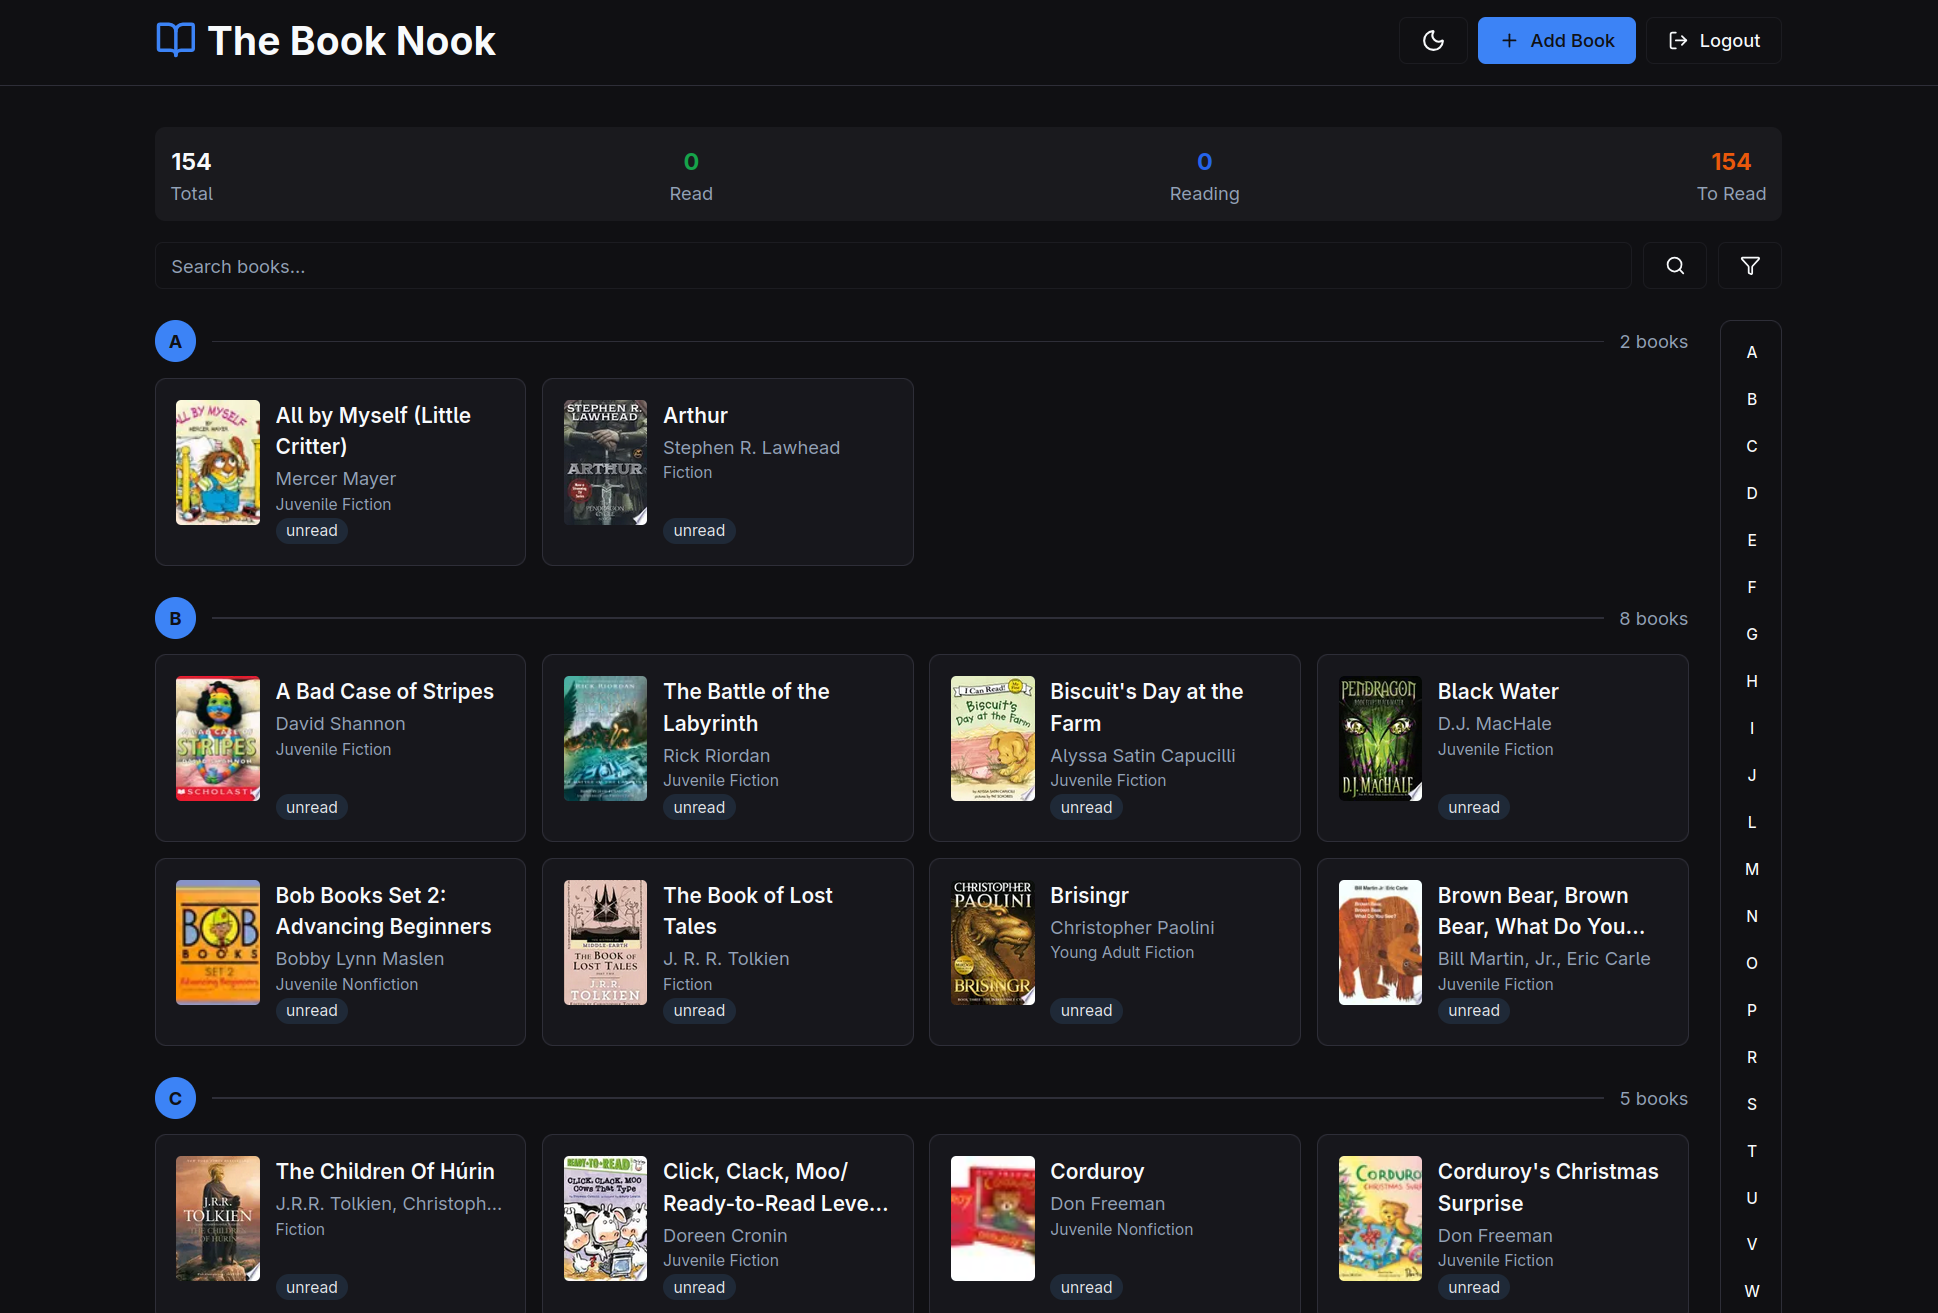
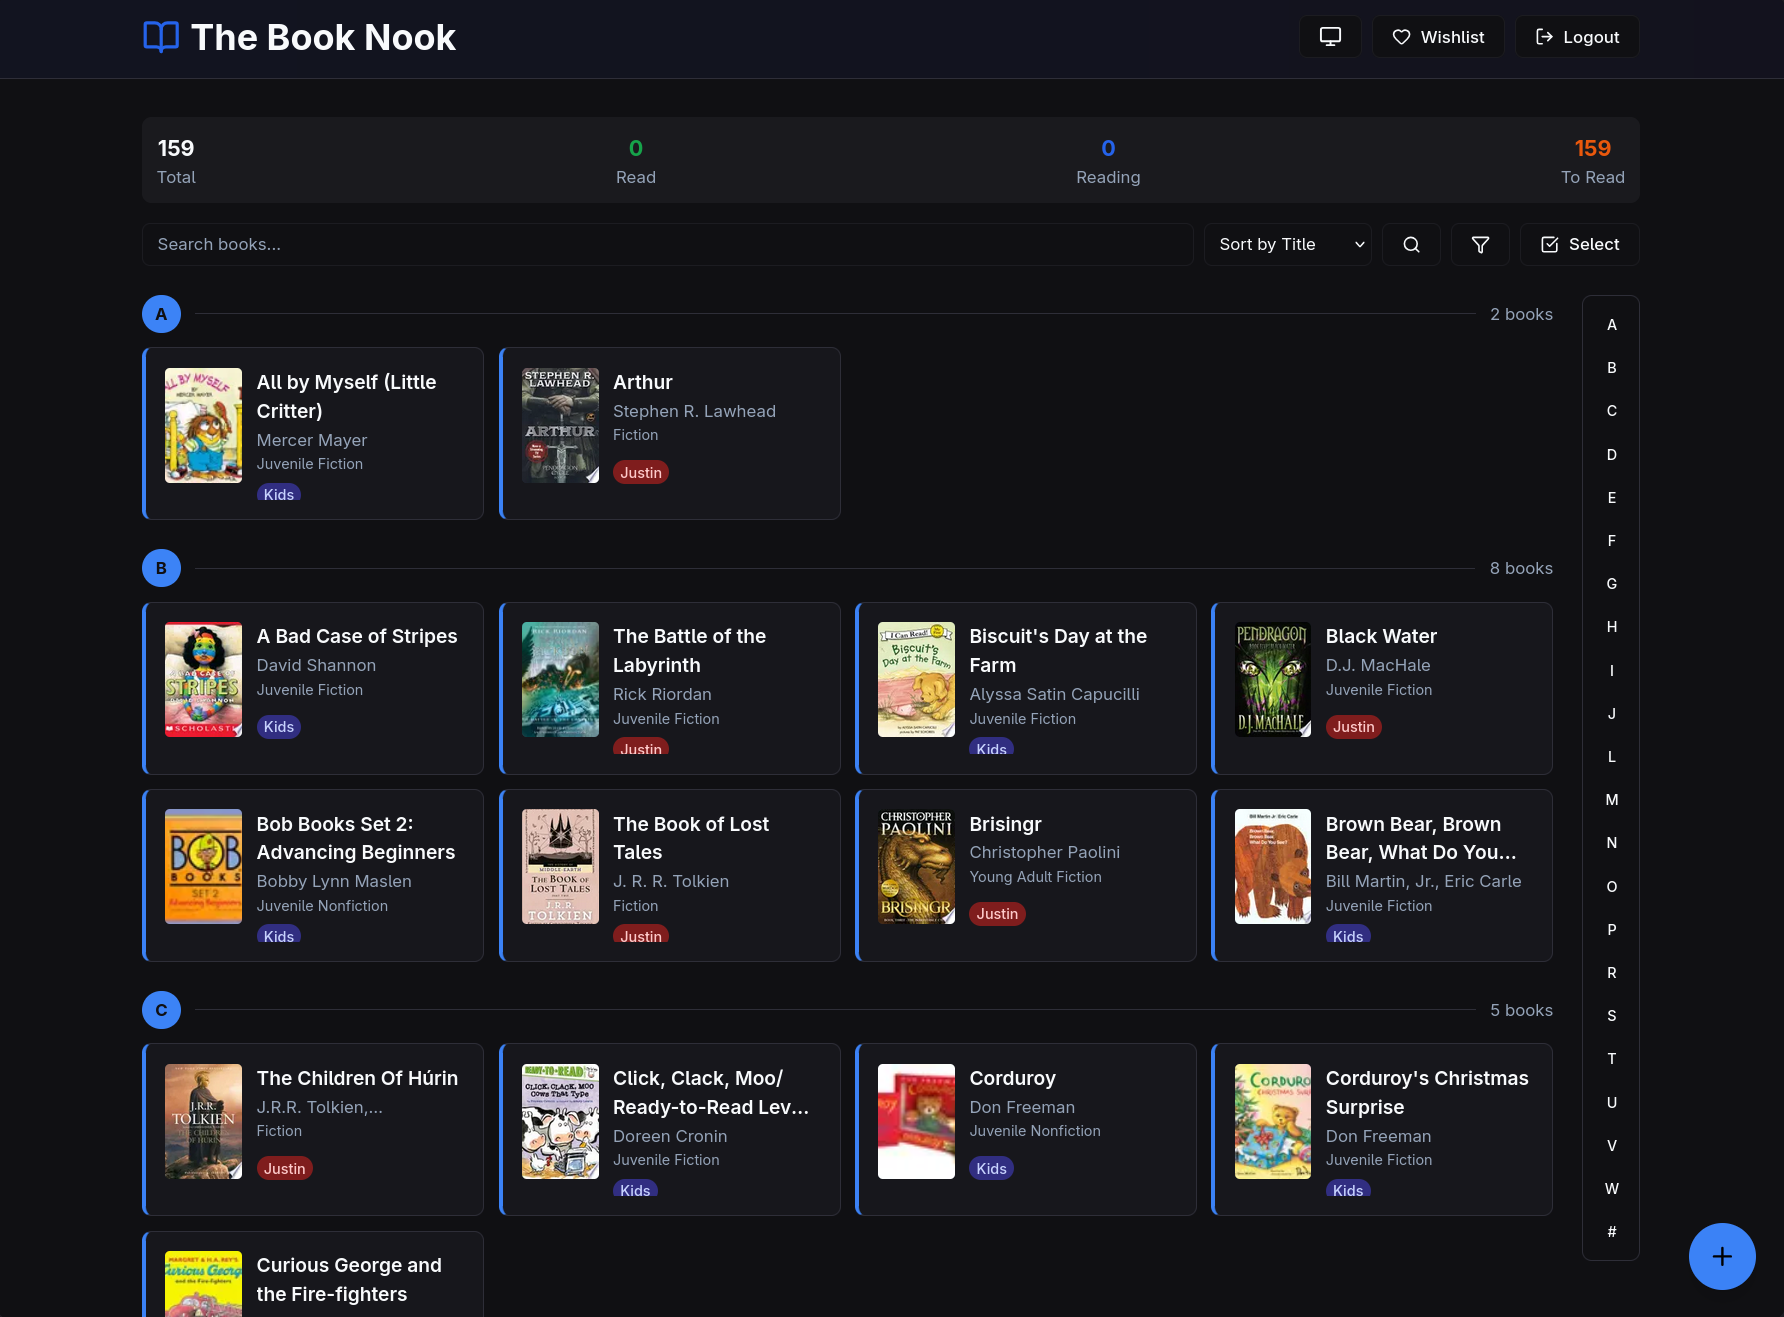
Updated README with latest features

diff --git a/README.md b/README.md
@@ -1,6 +1,6 @@
-# Personal Library Catalog
+# The Book Nook
 
-A simple web application to catalog and manage your personal book collection with authentication and Docker support.
+A simple web application to catalog and manage your personal book collection with wishlist functionality, authentication, and Docker support.
 
 ![screenshot](assets/screenshot.png)
 
@@ -8,10 +8,13 @@ A simple web application to catalog and manage your personal book collection wit
 
 - **User Authentication**: Secure login system with username/password
 - **Book Management**: Add, edit, and delete books from your library
+- **Wishlist Management**: Track books you want to read with priority levels (low, medium, high)
 - **Google Books Integration**: Search and import book details automatically
 - **Reading Status**: Track books as unread, currently reading, or read
 - **Ratings & Notes**: Add personal ratings (1-5 stars) and notes to books
-- **Search & Filter**: Search your library by title, author, or ISBN
+- **Tagging System**: Organize books and wishlist items with custom tags
+- **Search & Filter**: Search your library by title, author, ISBN, or tags
+- **Dark Mode**: Toggle between light and dark themes
 - **Statistics Dashboard**: View your reading progress and library stats
 - **Docker Support**: Easy deployment with Docker Compose
 
@@ -27,11 +30,13 @@ A simple web application to catalog and manage your personal book collection wit
 ### Option 1: Docker Compose (Recommended)
 
 1. Copy the environment file:
+
 ```bash
 cp .env.example .env
 ```
 
 2. Update the `.env` file with your desired credentials:
+
 ```
 DEFAULT_USERNAME=admin
 DEFAULT_PASSWORD=your-secure-password
@@ -39,6 +44,7 @@ JWT_SECRET=your-secret-key
 ```
 
 3. Run with Docker Compose:
+
 ```bash
 docker-compose up -d
 ```
@@ -48,26 +54,31 @@ docker-compose up -d
 ### Option 2: Local Development
 
 1. Install dependencies:
+
 ```bash
 npm install
 ```
 
 2. Copy and configure environment:
+
 ```bash
 cp .env.example .env
 ```
 
 3. Run database migrations:
+
 ```bash
 npx prisma migrate dev
 ```
 
 4. Seed the database with default user:
+
 ```bash
 npm run seed
 ```
 
 5. Start the development server:
+
 ```bash
 npm run dev
 ```
@@ -94,11 +105,20 @@ npm run dev
 
 - Click on any book card to view details and edit
 - Update reading status, add ratings, and personal notes
+- Add tags to organize your books
 - Delete books you no longer want to track
+
+### Managing Your Wishlist
+
+- Navigate to the wishlist page to see books you want to read
+- Set priority levels (low, medium, high) for wishlist items
+- Add notes about why you want to read specific books
+- Move books from wishlist to your library when you acquire them
 
 ### Database
 
 The app uses SQLite for data storage. The database file is located at:
+
 ```
 prisma/dev.db
 ```
@@ -106,11 +126,13 @@ prisma/dev.db
 ## Project Structure
 
 ```
-library-catalog/
+the-book-nook/
 ├── app/                  # Next.js app directory
 │   ├── api/             # API routes
 │   ├── add/             # Add book page
 │   ├── books/[id]/      # Book detail page
+│   ├── wishlist/        # Wishlist pages
+│   ├── debug/           # Debug utilities
 │   └── login/           # Login page
 ├── components/          # React components
 ├── lib/                 # Utility functions
@@ -140,9 +162,9 @@ docker-compose down -v
 
 ## Environment Variables
 
-| Variable | Description | Default |
-|----------|-------------|---------|
-| `DATABASE_URL` | SQLite database path | `file:./dev.db` |
-| `JWT_SECRET` | Secret key for JWT tokens | Required in production |
-| `DEFAULT_USERNAME` | Default admin username | `admin` |
-| `DEFAULT_PASSWORD` | Default admin password | `changeme` |
+| Variable           | Description               | Default                |
+| ------------------ | ------------------------- | ---------------------- |
+| `DATABASE_URL`     | SQLite database path      | `file:./dev.db`        |
+| `JWT_SECRET`       | Secret key for JWT tokens | Required in production |
+| `DEFAULT_USERNAME` | Default admin username    | `admin`                |
+| `DEFAULT_PASSWORD` | Default admin password    | `changeme`             |
